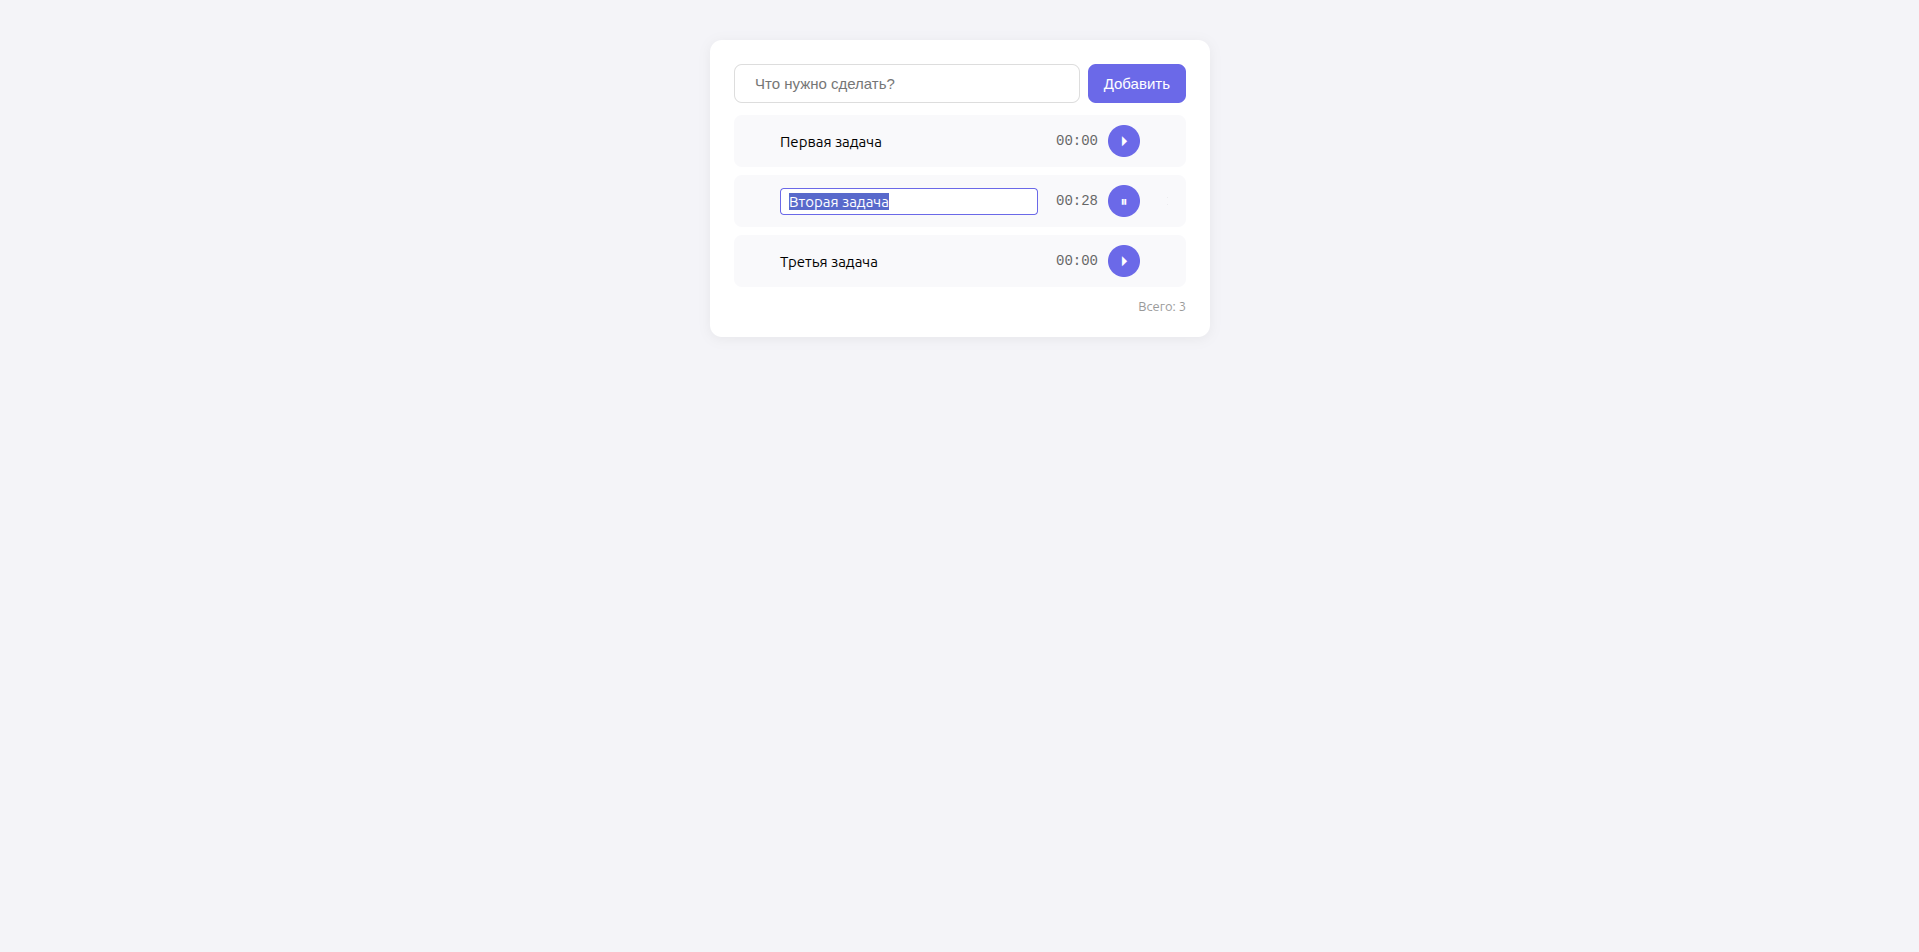
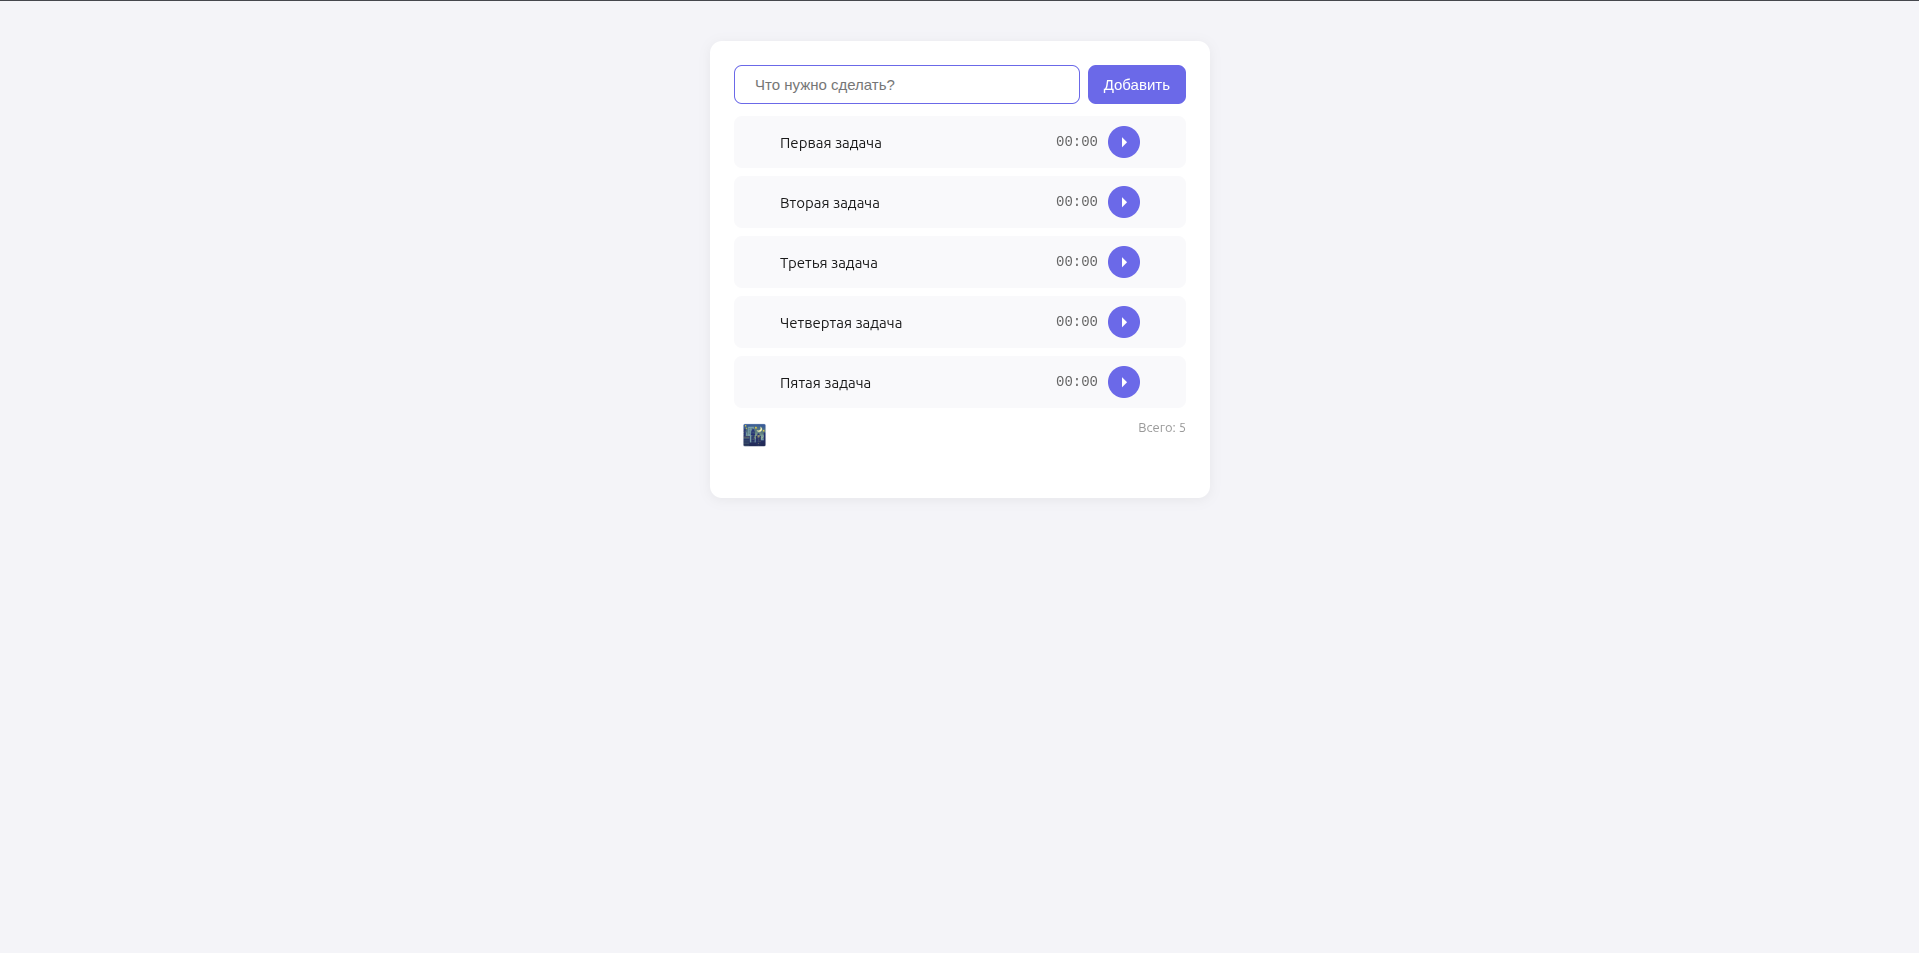
Update README: add dark theme, update readme

diff --git a/style.css b/style.css
@@ -46,6 +46,7 @@
 body {
     font-family: system-ui, -apple-system, sans-serif;
     background-color: var(--bg);
+    color:var(--text);
     display:flex;
     justify-content: center;
     align-items: flex-start;

diff --git a/README.md b/README.md
@@ -1,6 +1,7 @@
 # Todo App
 
 ![Скриншот приложения](./todo-app.png)
+![Скриншот приложения](./todo-app-dark-theme.png)
 
 Простой и удобный список задач на чистом JavaScript.
 
@@ -15,6 +16,7 @@
 - ✅ Сохранение прогресса таймера — продолжает с того же места
 - ✅ Только один таймер может идти одновременно
 - ✅ Сохранение в localStorage
+- ✅ Тёмная тема с сохранением выбора
 - ✅ Счётчик задач
 - ✅ Пустое состояние с подсказкой
 
@@ -37,7 +39,8 @@
 
 ## Что можно улучшить
 
-- [ ] Тёмная тема
 - [ ] Экспорт/импорт задач в JSON
+- [ ] Отметка задач «выполнено» и фильтры (все / активные / выполненные)
+- [ ] Кастомные фоны для тёмной темы (например, из комиксов Marvel / DC)**
 - [ ] Категории или теги для задач
 - [ ] Синхронизация между устройствами (бэкенд + БД)
